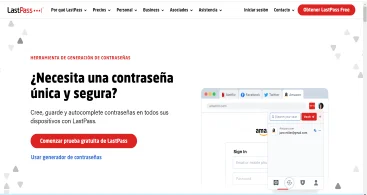
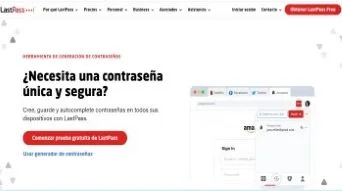
mejoradas calidad y dimension img de proyectos

diff --git a/css/estilos.css b/css/estilos.css
@@ -900,7 +900,7 @@ footer .grillaFooter .linkedin:hover {
   .intro .introProyectos div img {
     width: 100%;
   }
-  /*Seccion Intro de proyectos*/
+  /*Seccion de proyectos*/
   .seccionProyectos {
     width: 100%;
     height: 100%;
@@ -919,7 +919,7 @@ footer .grillaFooter .linkedin:hover {
     padding: 0;
   }
   .seccionProyectos .grillaProyectos .proyectos img {
-    width: 80%;
+    width: 100%;
   }
   .seccionProyectos .grillaProyectos .proyectos details summary {
     font-size: 16px;

diff --git a/scss/_mediaQueries.scss b/scss/_mediaQueries.scss
@@ -234,7 +234,7 @@
             }
         }
     }
-    /*Seccion Intro de proyectos*/
+    /*Seccion de proyectos*/
     .seccionProyectos {
         @include medidas($full-width, 100%);
         .grillaProyectos {
@@ -249,7 +249,7 @@
                 height: auto;
                 padding: 0;
                 img {
-                    width: 80%;
+                    width: $full-width;
                 }
                 details {
                     summary {
